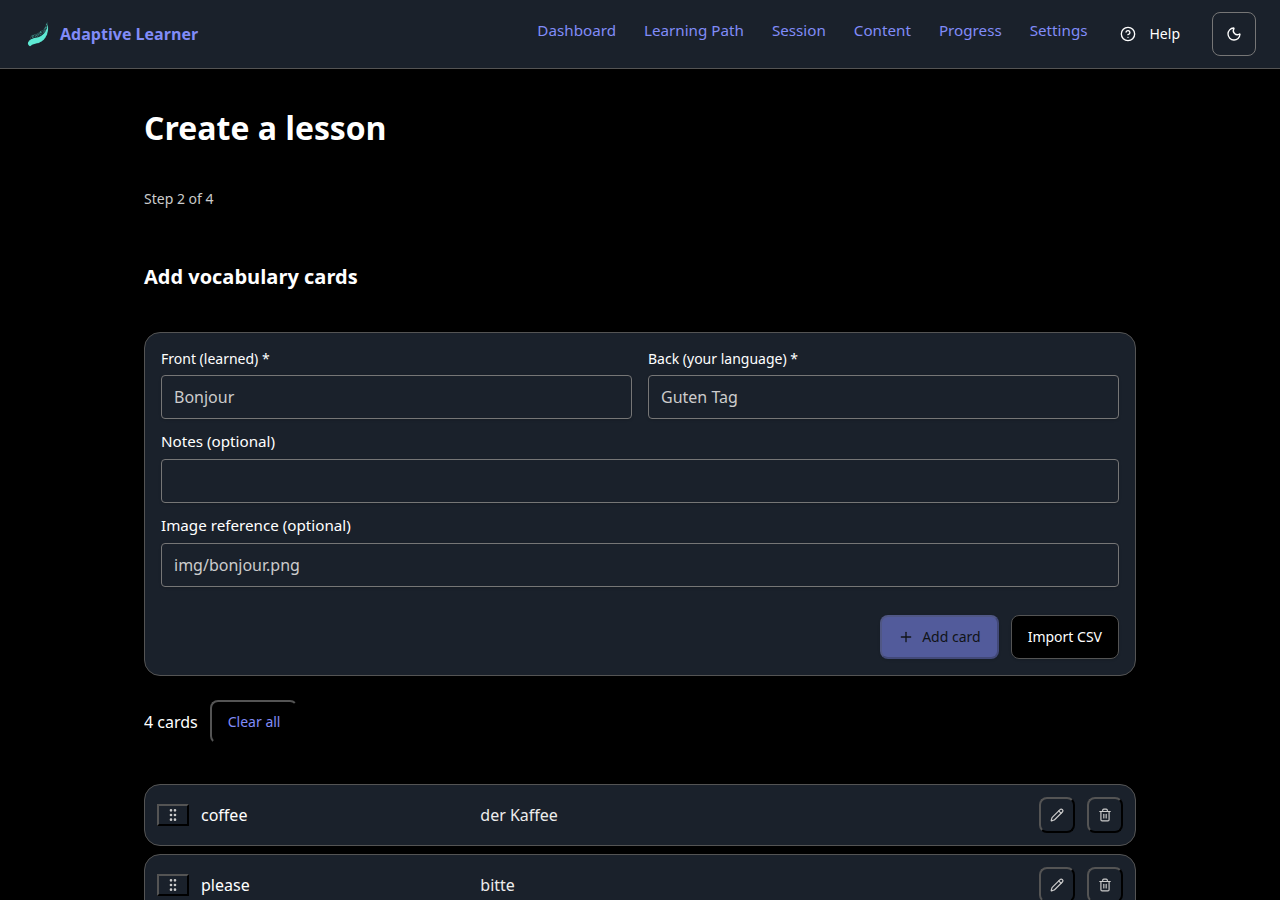
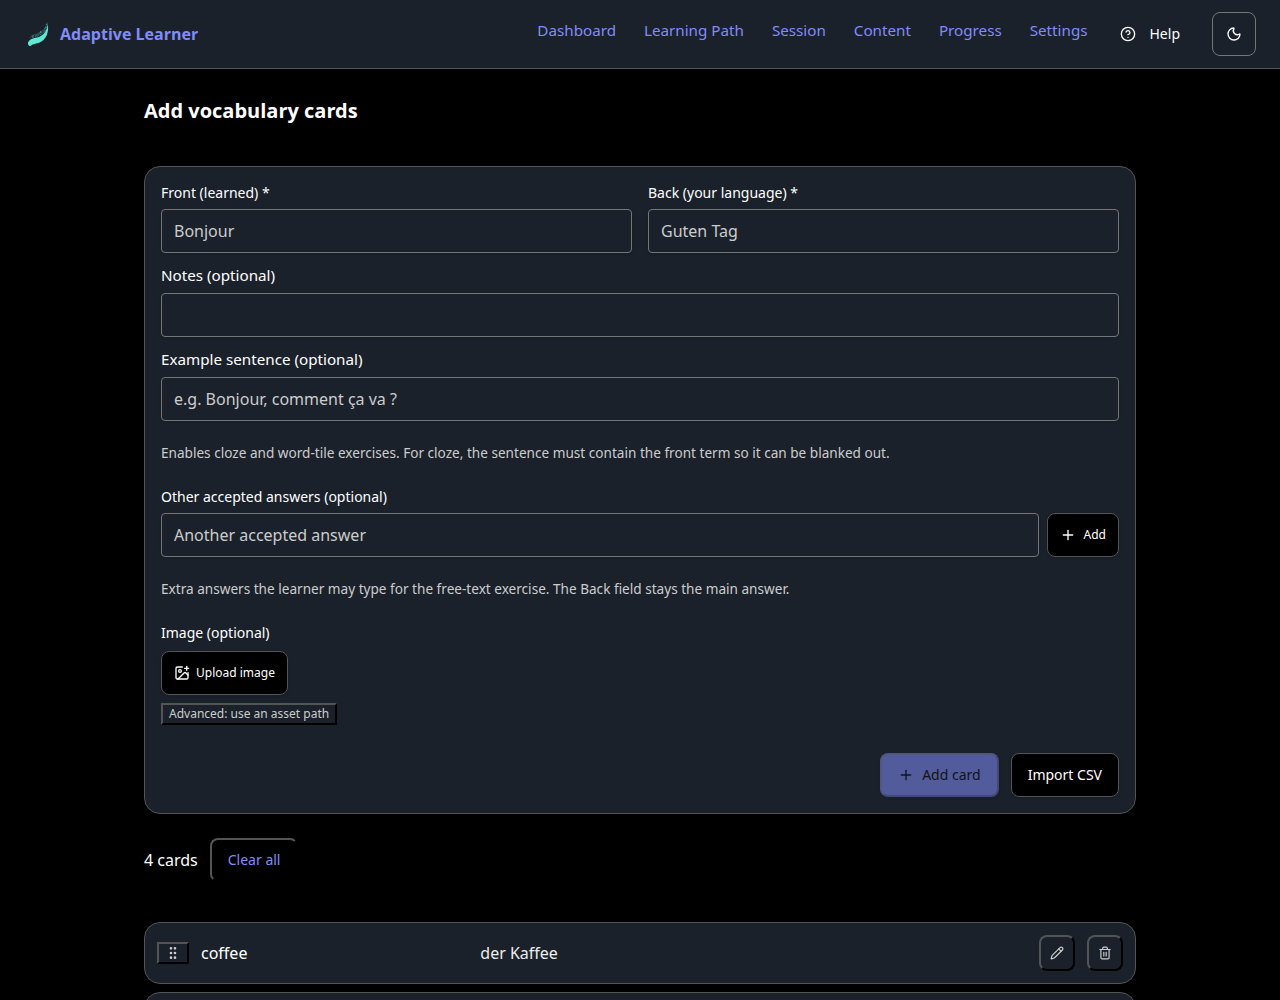
docs(blog): article 3 covers the extension path and the sixth core type (#72)
The creator walkthrough described a state the app has left behind. Its
"Honest limits" section still claimed extension types "are not
authorable here yet; those still start life as JSON", which stopped
being true when the extension wizard branch shipped.

Verified against origin/develop rather than taken from the brief:

- EXTENSION_WIZARD_TYPES lists five adopted types, dictation included
- GeneratableType is now six core types, multiple_choice among them
- ExerciseGenerator renders ExerciseEditor / ExtensionExerciseEditor
  inline and offers addManual
- CardEditor carries the example-sentence field with its
  enables-cloze-and-word-tiles hint

Content changes:

- New section "The extension path: advanced exercise types" with a table
  of all five types and one worked example each (categorization,
  error correction, reading comprehension, graded quiz, dictation),
  drawn from a French course for German speakers.
- Dictation gets the closer look: three payload fields, and the honest
  statement that the audio field takes a typed path, not an upload.
- Step 2 explains the example-sentence field as the thing that decides
  which exercise types step 3 can build.
- Step 3 covers all six core types, in-place editing, manual creation,
  and the notice that names a type whose precondition is missing.
- "Honest limits" replaces the stale extension claim with the two real
  limits: no generator for extension exercises, and no audio upload.
[…]

diff --git a/docs/blog/create-a-lesson-in-the-app.md b/docs/blog/create-a-lesson-in-the-app.md
@@ -1,13 +1,13 @@
 ---
 title: "Create a Lesson in the App, Step by Step"
-description: "A hands-on walkthrough of the adaptive-learner lesson creator: the four wizard steps, the book-text path that turns a pasted textbook chapter into a knowledge lesson, and the edit mode - with real screenshots from the running app."
+description: "A hands-on walkthrough of the adaptive-learner lesson creator: the four wizard steps, the book-text path that turns a pasted textbook chapter into a knowledge lesson, the extension path for the five advanced exercise types, and the edit mode - with real screenshots from the running app."
 date: 2026-07-17
 tags: [tutorial, authoring, adaptive-learner, walkthrough]
 ---
 
 # Create a Lesson in the App, Step by Step
 
-*A hands-on walkthrough of the lesson creator in adaptive-learner: the classic four wizard steps from an empty form to a saved, schema-valid lesson, the newer book-text path that turns a pasted textbook chapter into a knowledge lesson, and the wizard's edit mode. Every screenshot in this guide comes from the running app, captured during the exact flow described.*
+*A hands-on walkthrough of the lesson creator in adaptive-learner: the classic four wizard steps from an empty form to a saved, schema-valid lesson, the book-text path that turns a pasted textbook chapter into a knowledge lesson, the extension path that makes the five advanced exercise types authorable without JSON, and the wizard's edit mode. Every screenshot in this guide comes from the running app, captured during the exact flow described.*
 
 `adaptive-learner` · for teachers and content authors · part 3 of the series
 
@@ -15,7 +15,7 @@ The [previous article](one-source-many-outputs.md) made a promise: you don't hav
 
 ## Where the creator lives
 
-The creator is a page in the app: open `/create-lesson` (or follow the create action from the Content area). On the classic path it is a four-step wizard, and the steps mirror exactly what a lesson *is* in the canonical schema: metadata, cards, exercises, and a final review. You can go back at any step; nothing is saved until you say so. Two more doors lead into the same wizard, and we will walk through both after the classic path: a **book-text path** that builds a knowledge lesson from a pasted textbook chapter, and an **edit mode** that reopens any lesson you own.
+The creator is a page in the app: open `/create-lesson` (or follow the create action from the Content area). On the classic path it is a four-step wizard, and the steps mirror exactly what a lesson *is* in the canonical schema: metadata, cards, exercises, and a final review. You can go back at any step; nothing is saved until you say so. Three more doors lead into the same wizard, and we will walk through each after the classic path: a **book-text path** that builds a knowledge lesson from a pasted textbook chapter, an **extension path** for the advanced exercise types, and an **edit mode** that reopens any lesson you own.
 
 ## Step 1: Lesson details
 
@@ -33,13 +33,13 @@ For our example:
 | Your language | German |
 | Level | A1 |
 
-Two things are worth noticing. First, the language pair here is the same `target_language` / `source_language` pair the schema records; the wizard just gives it friendlier names ("Language learned" and "Your language"). Second, there are starter templates (blank, vocabulary, grammar, conversation, and the newer "Knowledge lesson from text", which we cover below) if you'd rather not begin from an empty form; the applied template shows a pressed state so you can see which one is active. For this walkthrough we simply fill the fields and press **Next**.
+Two things are worth noticing. First, the language pair here is the same `target_language` / `source_language` pair the schema records; the wizard just gives it friendlier names ("Language learned" and "Your language"). Second, the template row is also where the wizard's alternative paths start: alongside the four starter templates (blank, vocabulary, grammar, conversation) sit "Knowledge lesson from text" and "Advanced exercise types", both covered below. The applied template shows a pressed state so you can see which one is active. For this walkthrough we simply fill the fields and press **Next**.
 
 ## Step 2: Add vocabulary cards
 
-Cards are the raw material of a lesson: the words and phrases the exercises will drill. Each card has a front (in the language being learned) and a back (in your language), plus optional notes and an image reference.
+Cards are the raw material of a lesson: the words and phrases the exercises will drill. Each card has a front (in the language being learned) and a back (in your language), plus optional notes, an example sentence, alternative accepted answers, and an image.
 
-![Step 2: the card editor with four cards added to the list](assets/create-lesson/s2-cards.png)
+![Step 2: the card editor with the example sentence field, alternative answers, and four cards added to the list](assets/create-lesson/s2-cards.png)
 
 We add four:
 
@@ -52,16 +52,26 @@ We add four:
 
 Type front and back, press **Add card**, repeat. The list below the form grows as you go, and each entry can be edited, deleted, or reordered. If you already have vocabulary in a spreadsheet, **Import CSV** takes it in one step instead of four.
 
+One field earns a closer look, because it quietly decides what the next step can build for you: **Example sentence**. Its hint says so directly: it enables cloze and word-tile exercises, and for cloze the sentence has to contain the front term so the term can be blanked out. That turns a former guessing game ("why did the generator skip cloze?") into something visible at the moment you author the card. The same goes for **Image**, which is what picture choice needs. Skip both and the generator simply has less to work with; step 3 will tell you so rather than silently producing fewer exercises.
+
 ## Step 3: Generate exercises
 
-This is the step that would be tedious by hand, and the wizard does it for you. Pick how many exercises you want, which types are allowed (matching, free text, cloze, word tiles, picture choice), and a direction preference (receptive, productive, or balanced). Then press **Auto-generate exercises**.
+This is the step that would be tedious by hand, and the wizard does it for you. Pick how many exercises you want, which types are allowed, and a direction preference. Then press **Auto-generate exercises**.
 
-![Step 3: the exercise generator with type checkboxes and five generated exercises](assets/create-lesson/s3-exercises.png)
+![Step 3: the exercise generator with the six core type checkboxes and the Add exercise button](assets/create-lesson/s3-exercises-config.png)
 
-For our four cards the generator produced five exercises: one matching exercise over all four pairs, and one translation prompt per card. Two details matter here:
+The type list now holds all six core exercise types: matching, free text, cloze, word tiles, picture choice, and multiple choice. Multiple choice is worth calling out because it is a *core* type, not an extension: it went into the schema's exercise-type enum proper, so every consumer of the format understands it without opting into anything.
+
+![Step 3 after generating: ten exercises, plus a notice naming the one selected type that could not be built](assets/create-lesson/s3-exercises.png)
+
+For our four cards the generator produced ten exercises, starting with a matching exercise over all four pairs. It also reports what it could *not* do: "Some selected types produced no exercises: picture_choice", because none of our cards carries an image. That notice is the point of the optional fields in step 2. Cloze and word tiles need example sentences, picture choice needs images, and the step names the missing precondition instead of quietly handing back a shorter list.
+
+Four more details matter here:
 
 - **The generation is deterministic and local.** It derives exercises from your cards by rule, not by a language model, so it needs no API key and produces the same kind of result every time. Don't like the mix? **Regenerate**, adjust the type checkboxes, or delete individual exercises from the list.
 - **The exercises are real schema exercises.** What the generator emits are the same `matching` and `free_text` structures a hand-written lesson JSON would contain. The wizard is writing the canonical format for you, one form at a time.
+- **Every exercise is editable in place.** Generated output is a starting point, not a verdict: open any entry and adjust the prompt, the accepted answers, the options. You are editing the exercise, not regenerating around it.
+- **You do not have to generate at all.** **Add exercise** creates one by hand, picking the type yourself. That closes the gap for the exercise the generator cannot derive from your cards, and it means the generator is a convenience rather than the only way in.
 
 ## Step 4: Review and save
 
@@ -103,6 +113,36 @@ This path calls a language model, so it is the one part of the creator that need
 
 One run of the wizard produces one lesson in one set. For a book with many chapters, run the wizard once per chapter; every set carries the same book block, so the lessons stay visibly related.
 
+## The extension path: advanced exercise types
+
+The six core types cover the everyday drill. Some exercise shapes do not fit any of them, and those live in the extension tier: a separate, opt-in layer that adds exercise types without widening the core schema (the second article covers why that boundary exists). Until recently they were JSON-only. They are not any more. The third entry in the template row opens their own wizard branch:
+
+![Step 1 with the template row: the four starter templates plus the book-text and Advanced exercise types entries](assets/create-lesson/e1-extensions-entry.png)
+
+Choosing it switches to a shorter three-step flow: metadata, exercises, review. No card step, because extension exercises carry their own content rather than drawing on cards. **Add extension exercise** opens the type picker, and all five adopted types are there:
+
+![The extension type picker with all five adopted types](assets/create-lesson/e2-type-picker.png)
+
+The picker shows the technical type ids, which is honest about what you are authoring: each is a namespaced `ext:` type that the lesson will declare in `requires_extensions`, so a consumer without that extension refuses the lesson loudly instead of mis-rendering it. Here is what each one is for, with a small example from a French course for German speakers:
+
+| Type | What the learner does | Example |
+|---|---|---|
+| `ext:al-categorization` | Sorts items into named buckets | Sort *pomme, carotte, banane, poireau* into **Obst** and **Gemüse** |
+| `ext:al-error-correction` | Finds and fixes a planted mistake | *"Elle a mangé des pomme."* The error: *pomme* has to be *pommes* |
+| `ext:al-reading-comprehension` | Reads one passage, answers several questions on it | *"Marie habite à Paris. Elle travaille dans un café le matin et étudie le français le soir."* Question: where does Marie work? |
+| `ext:al-graded-quiz` | Works through a scored question set with a pass mark | Three questions on greetings, one point each, pass at 2 of 3 |
+| `ext:al-dictation` | Listens to a clip and types what was said | Hear *"Comment ça va?"*, accepted with or without the accent |
+
+Dictation is the newest of the five, and its editor shows what a self-contained extension payload looks like:
+
+![The dictation editor: instruction, audio file path with its hint, and two accepted transcriptions](assets/create-lesson/e3-dictation-fields.png)
+
+Three fields, no more: the instruction the learner sees, the **audio file path**, and the list of **accepted transcriptions**. The accepted list is why dictation is forgiving in the right way: you decide up front that *"a coffee please"* counts as well as *"A coffee, please."*, so the grader does not have to guess how strict to be about capitals and punctuation.
+
+Note what the audio field is: a path, typed. The wizard does not upload the clip for you in this version; you put the file into the set's `assets` folder and name it here. That is a real limit, and it is the honest one to state rather than implying an upload button that is not there.
+
+Saving works exactly as everywhere else in the creator. The lesson that comes out is a normal lesson in the canonical schema, with one addition: it declares the extension it uses, so the portability contract holds.
+
 ## The wizard is now also the editor
 
 The second door: every lesson you created (or imported) can be reopened. In the Content area, own lessons carry an **Edit** action - lessons from foreign repositories stay read-only - and it opens the same wizard, pre-filled with the lesson's title, languages, cards and exercises. Walk the steps, change what you want, and the review screen offers a choice the create flow does not have:
@@ -122,7 +162,8 @@ The output of these steps is not a proprietary in-app object. It is a lesson in 
 
 The creator is deliberately the *simple* path, and it has edges:
 
-- It covers the core exercise types. Extension types (the graded quiz from the school-test use case, categorization, and friends) are not authorable here yet; those still start life as JSON, or wait for the richer teacher-facing editor that is planned.
+- Extension exercises are authorable now, but one at a time and by hand. There is no generator for them: the wizard gives you a form per type, not a rule that derives a graded quiz from your cards. That is a deliberate order of work (make it authorable first, automate later), not an oversight.
+- Dictation takes an audio path, not an upload. You place the clip in the set's `assets` folder yourself and type the path. Recording or uploading from the browser is not built in this version.
 - The card-path generator is rule-based on purpose. It produces solid drill exercises from your cards and needs no API key; it does not invent prose. Theory-rich lessons are now the book-text path's job - that one does write theory, and in exchange it is the only part that needs a model key.
 - The book-text path takes pasted text only. PDF or Word upload and automatic chapter detection are not built; splitting a book into chapters is still your call.
 
@@ -130,4 +171,4 @@ For the everyday case (a teacher or learner who wants a small, clean vocabulary 
 
 ---
 
-*Four steps, no JSON: metadata, cards, generated exercises, and a review that runs the same quality floor as CI. And two doors more: a textbook chapter in, a knowledge lesson out; and every own lesson editable without losing its progress.*
+*Four steps, no JSON: metadata, cards, generated exercises, and a review that runs the same quality floor as CI. And three doors more: a textbook chapter in, a knowledge lesson out; the five advanced exercise types authorable in their own branch, dictation included; and every own lesson editable without losing its progress.*